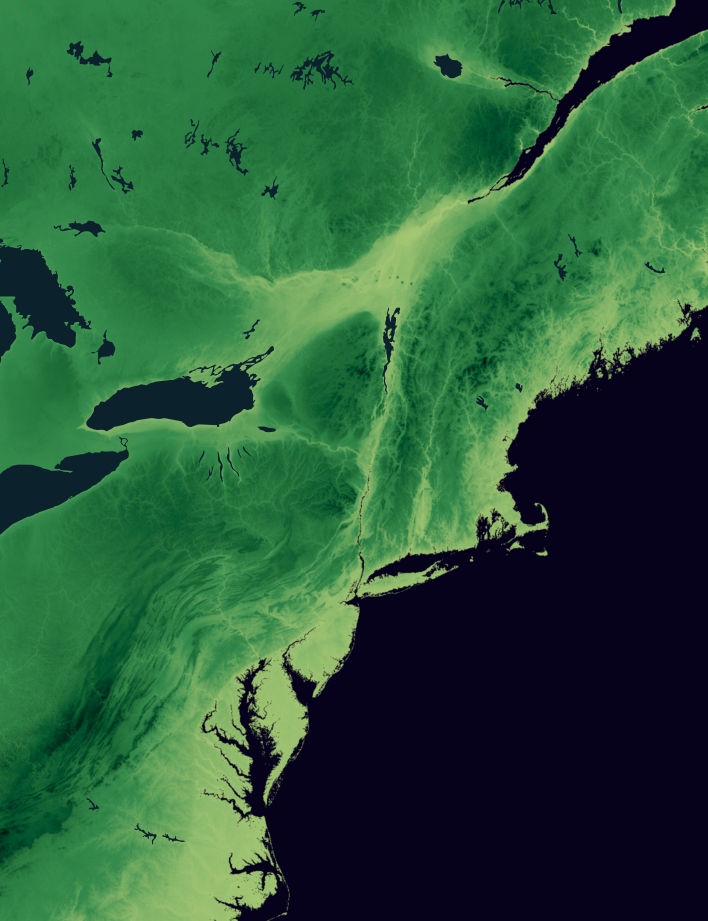
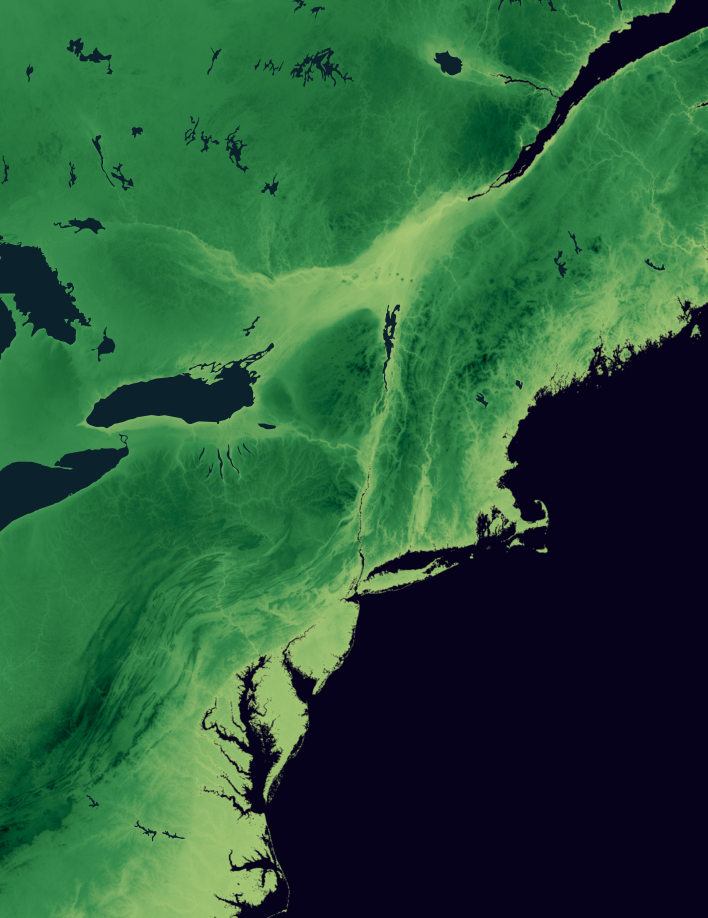
Update palette to greens

diff --git a/image-resize.py b/image-resize.py
@@ -18,6 +18,6 @@ import os
 #optimize.save('test/optimize.png', "PNG", optimize=True)
 #print "Optimized size: %s" % os.path.getsize('test/optimize.png')
 
-convert = Image.open('basemap/northeast-outline-708-3-converted.png')
-convert.convert('RGBA').save('basemap/northeast-outline-708-3-converted.png', "PNG", optimize=True)
-print "Converted size: %s" % os.path.getsize('basemap/northeast-outline-708-3-converted.png')
+convert = Image.open('basemap/green-northeast-708.png')
+convert.convert('P').save('test/green.png', "PNG", optimize=True)
+print "Converted size: %s" % os.path.getsize('test/green.png')

diff --git a/transform.py b/transform.py
@@ -122,7 +122,7 @@ def add_basemap(radar, width="708", region="northeast"):
 def crop_image(image):
     cropped = Image.open(image)
     w, h = cropped.size
-    cropped.crop((0, 91, w, h - 211)).save(image, "PNG", optimize=True, bits=8)
+    cropped.crop((0, 91, w, h - 211)).save(image, "PNG", optimize=True)
     return image
 
 
